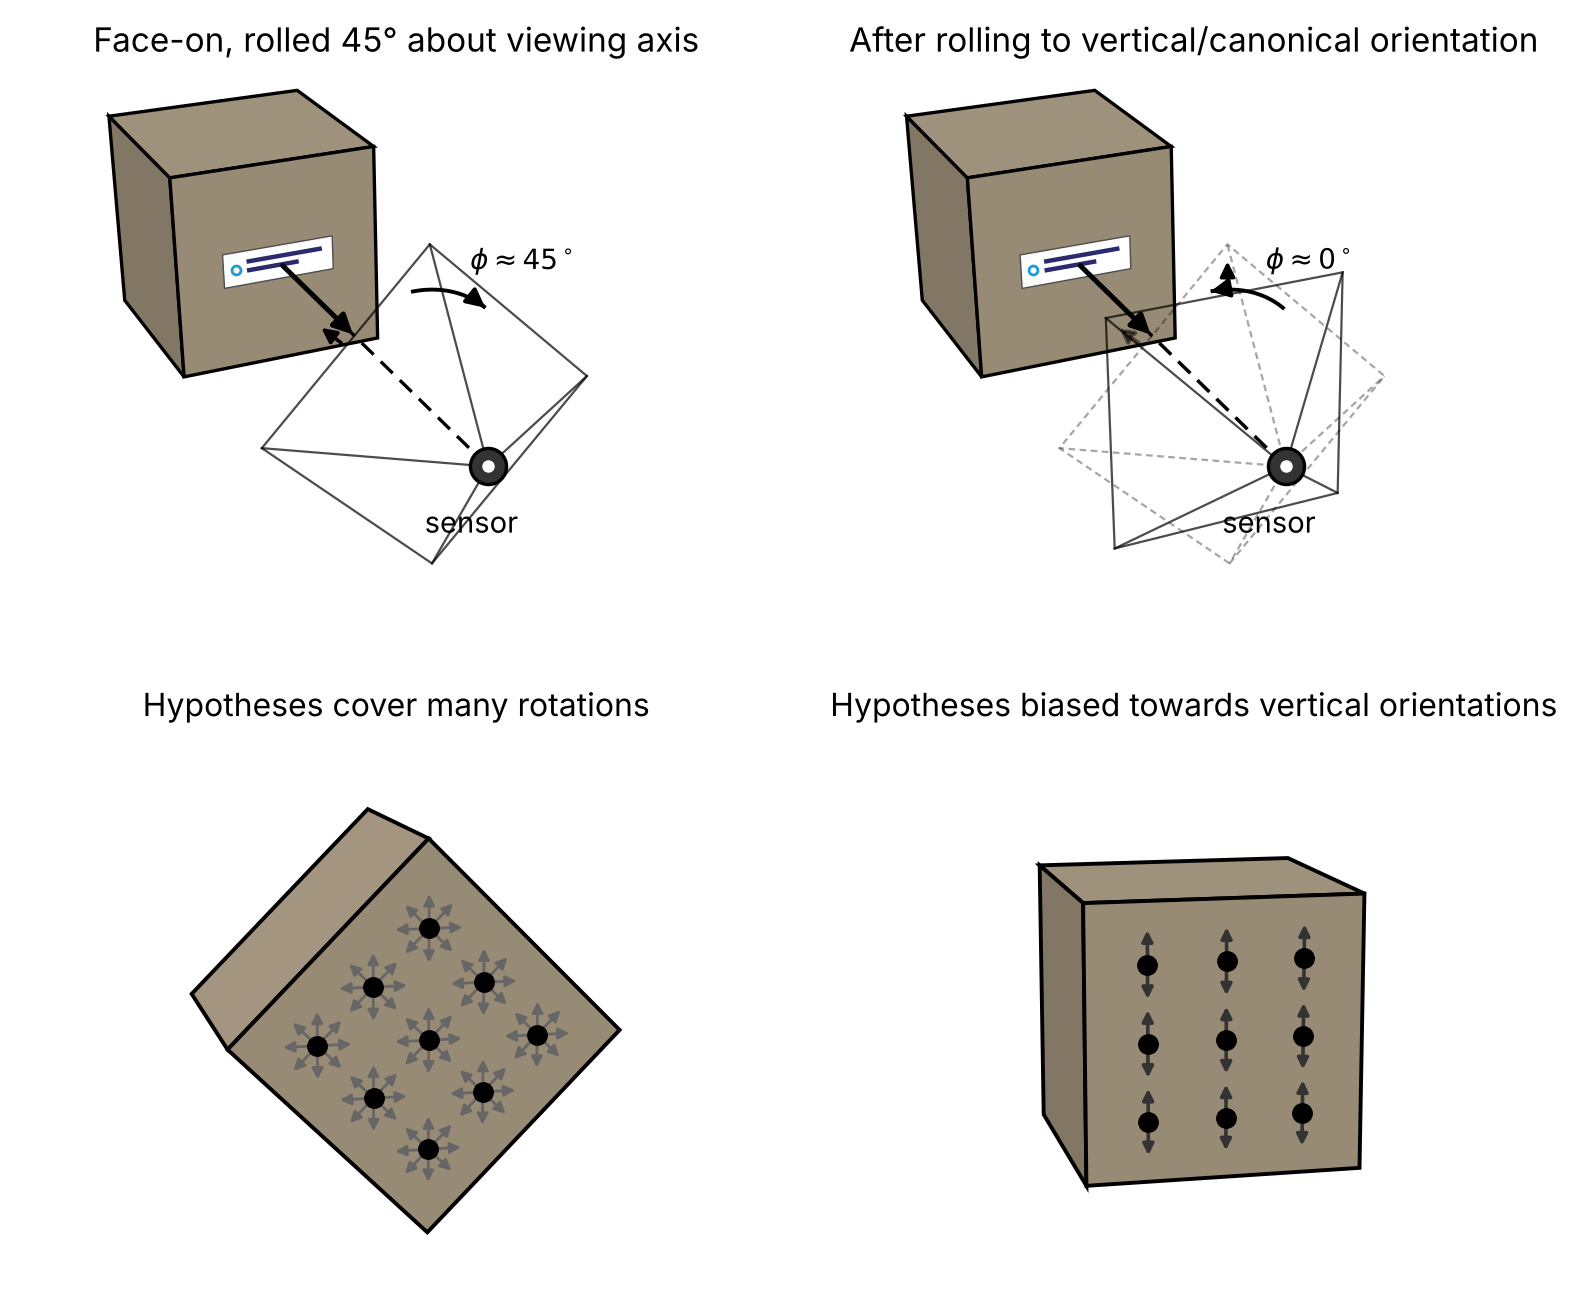
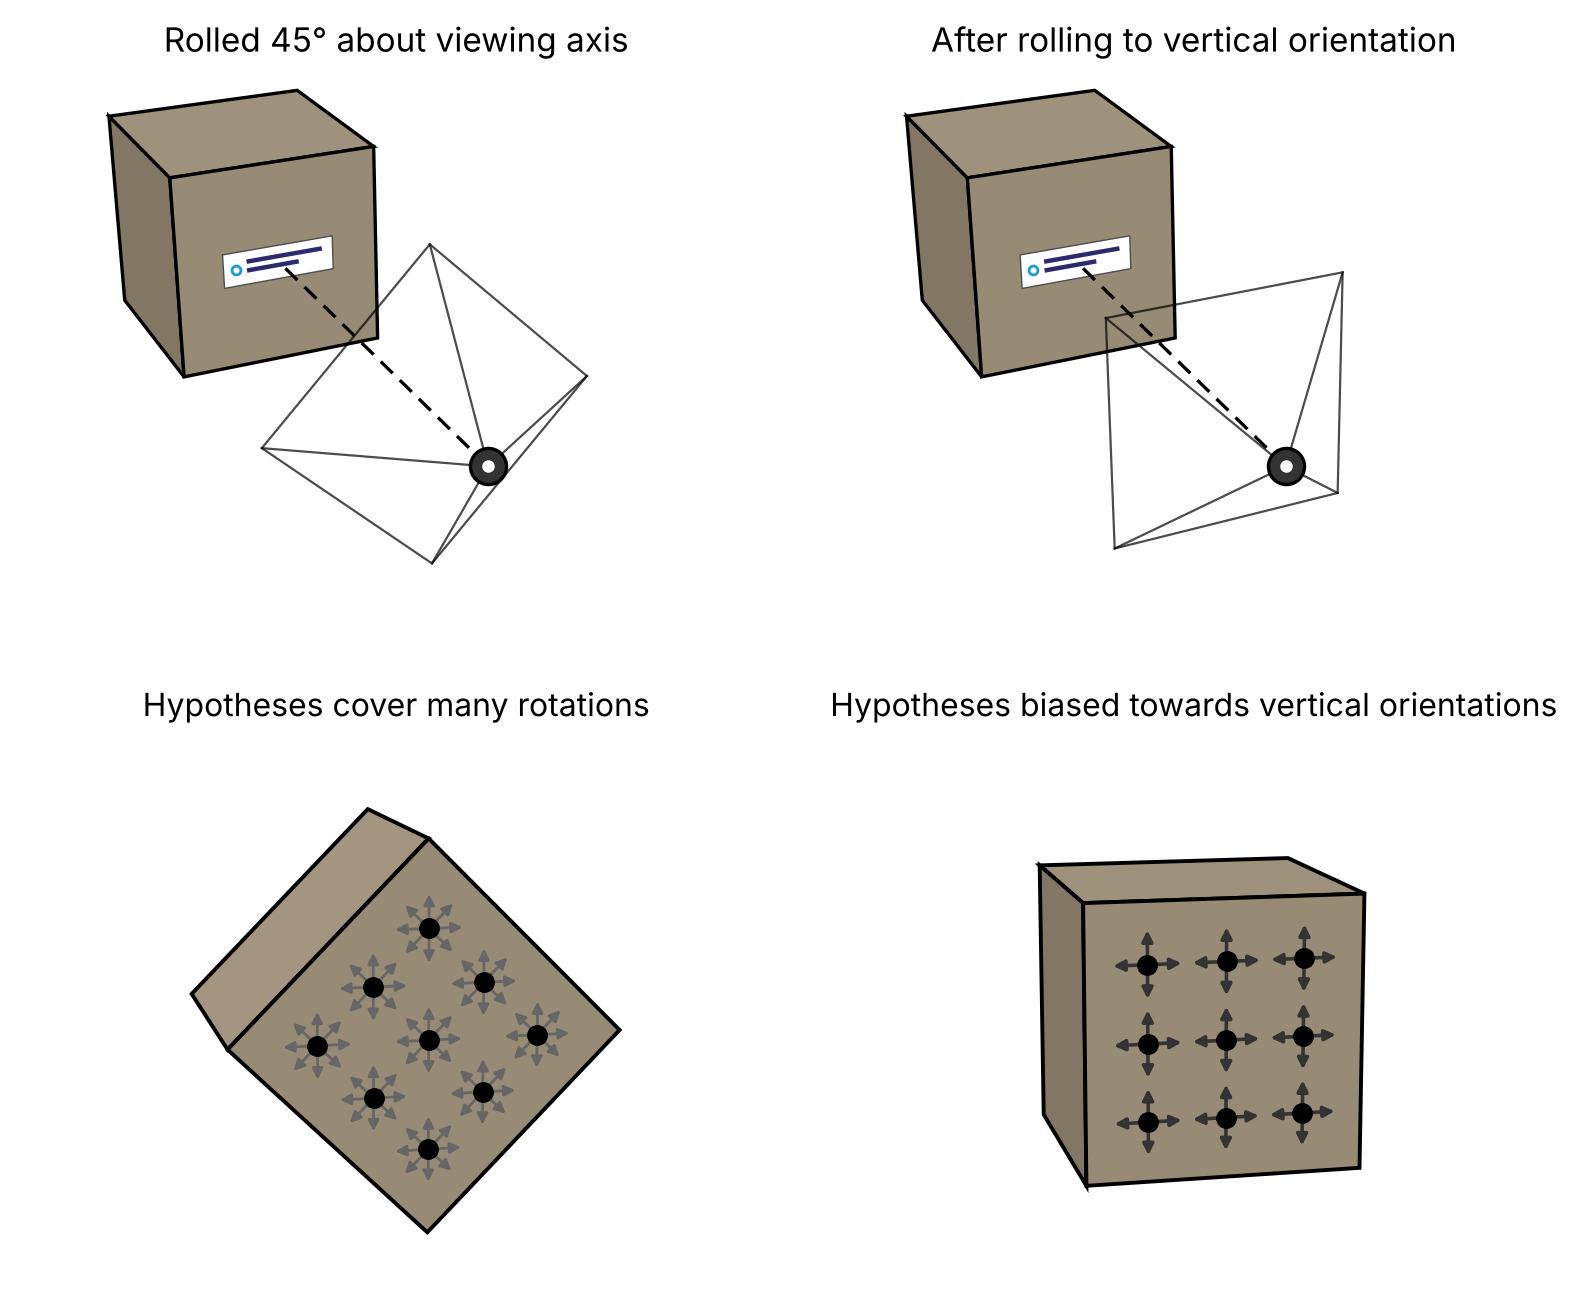
docs: update text and figures and filename

diff --git a/docs/future-work/motor-system-improvements/model-free-repositioning-for-natural-views.md b/docs/future-work/motor-system-improvements/model-free-repositioning-for-natural-views.md
@@ -1,0 +1,29 @@
+---
+title: Model-Free Repositioning for Natural Views
+description: Let sensor modules propose the agent's pose so that an object is viewed from a cleaner or canonical view.
+rfc: optional
+estimated-scope: medium
+improved-metric: accuracy, speed, learning, goal-policy
+output-type: prototype, monty-feature, PR
+skills: python, computer-vision
+contributor: 
+status: open
+---
+
+**Repositioning to obtain face-on views of planar surfaces.**
+When viewing an object's surface from a steeply oblique angle, sensor modules are given data that is effectively compressed along an axis. This means that features, such as the color or principal curvatures, are necessarily computed over a larger physical area, and this skew is often along only one physical axis. In other words, features can be view-dependent, which introduces extra difficulty when comparing observed features to features stored in learned models. Furthermore, viewing a surface from an oblique angle makes it more difficult to evenly saccade across the surface, thereby reducing the effective coverage of an object's faces.
+
+This can be addressed by allowing sensor modules to propose agent poses. In particular, an SM may detect that it is viewing a surface from an oblique angle based on its observed surface normals. The SM can then propose a goal that would place the agent and sensor(s) such that they view the surface "face-on". Here, "face-on" means viewing directly down the surface normal.
+
+![Left: Monty sees the face of a cube from an oblique angle. Right: After repositioning according to the computed surface normal, Monty obtains a face-on view of the cube's face. Bottom: The view-finder image from each pose.](../../figures/future-work/model_free_face_on_view.png#width=600px)
+
+
+**Rotating the sensor/agent around the forward axis for consistent views.**
+If the model-free system can consistently view an object with the same apparent orientation (i.e., an orientation in retinotopic space), then in principle we should be able to seed fewer hypotheses during inference. In other words, we may be able to reduce the size of the hypothesis search space by leveraging a preference to view objects according to their physical characteristics (e.g., a focus of mass along a certain axis).
+
+For intuition, consider how much more difficult it is to recognize a face when it isn't upright. Similarly, it's much more difficult to read a line of text when it is tilted at an angle. In both cases, we'll often subconsciously tilt our heads or rotate a page to get a more "natural" view.
+
+Note that the above describes an entirely model-free system for obtaining a consistent view, and it may or may not match the object's typical appearance in the world (i.e., its canonical view).
+
+![Top: The sensor is face-on to a cube with a logo but rolled by φ about its viewing axis (left); by taking the edges of the cube and/or the logo into account, we can roll our sensor/agent such that the object appears upright (right). Bottom: When the apparent orientation is unknown, each model location must be initialized with hypotheses covering many rotations (left); if the object is reliably seen in one or two orientations, we can bias our hypotheses towards those (right).](../../figures/future-work/model_free_forward_axis_roll.png#width=600px)
+

diff --git a/docs/hierarchy.md b/docs/hierarchy.md
@@ -148,7 +148,7 @@
   - [interpret-goal-states-in-motor-system-switch-policies](future-work/motor-system-improvements/interpret-goal-states-in-motor-system-switch-policies.md)
   - [policy-to-recognize-an-object-before-moving-on-to-a-new-object](future-work/motor-system-improvements/policy-to-recognize-an-object-before-moving-on-to-a-new-object.md)
   - [policy-to-quickly-move-to-a-new-object](future-work/motor-system-improvements/policy-to-quickly-move-to-a-new-object.md)
-  - [model-free-repositioning-for-canonical-views](future-work/motor-system-improvements/model-free-repositioning-for-canonical-views.md)
+  - [model-free-repositioning-for-natural-views](future-work/motor-system-improvements/model-free-repositioning-for-natural-views.md)
 - [voting-improvements](future-work/voting-improvements.md)
   - [clean-up-and-simplify-voting](future-work/voting-improvements/clean-up-and-simplify-voting.md)
   - [outline-how-to-apply-attention](future-work/voting-improvements/outline-how-to-apply-attention.md)
